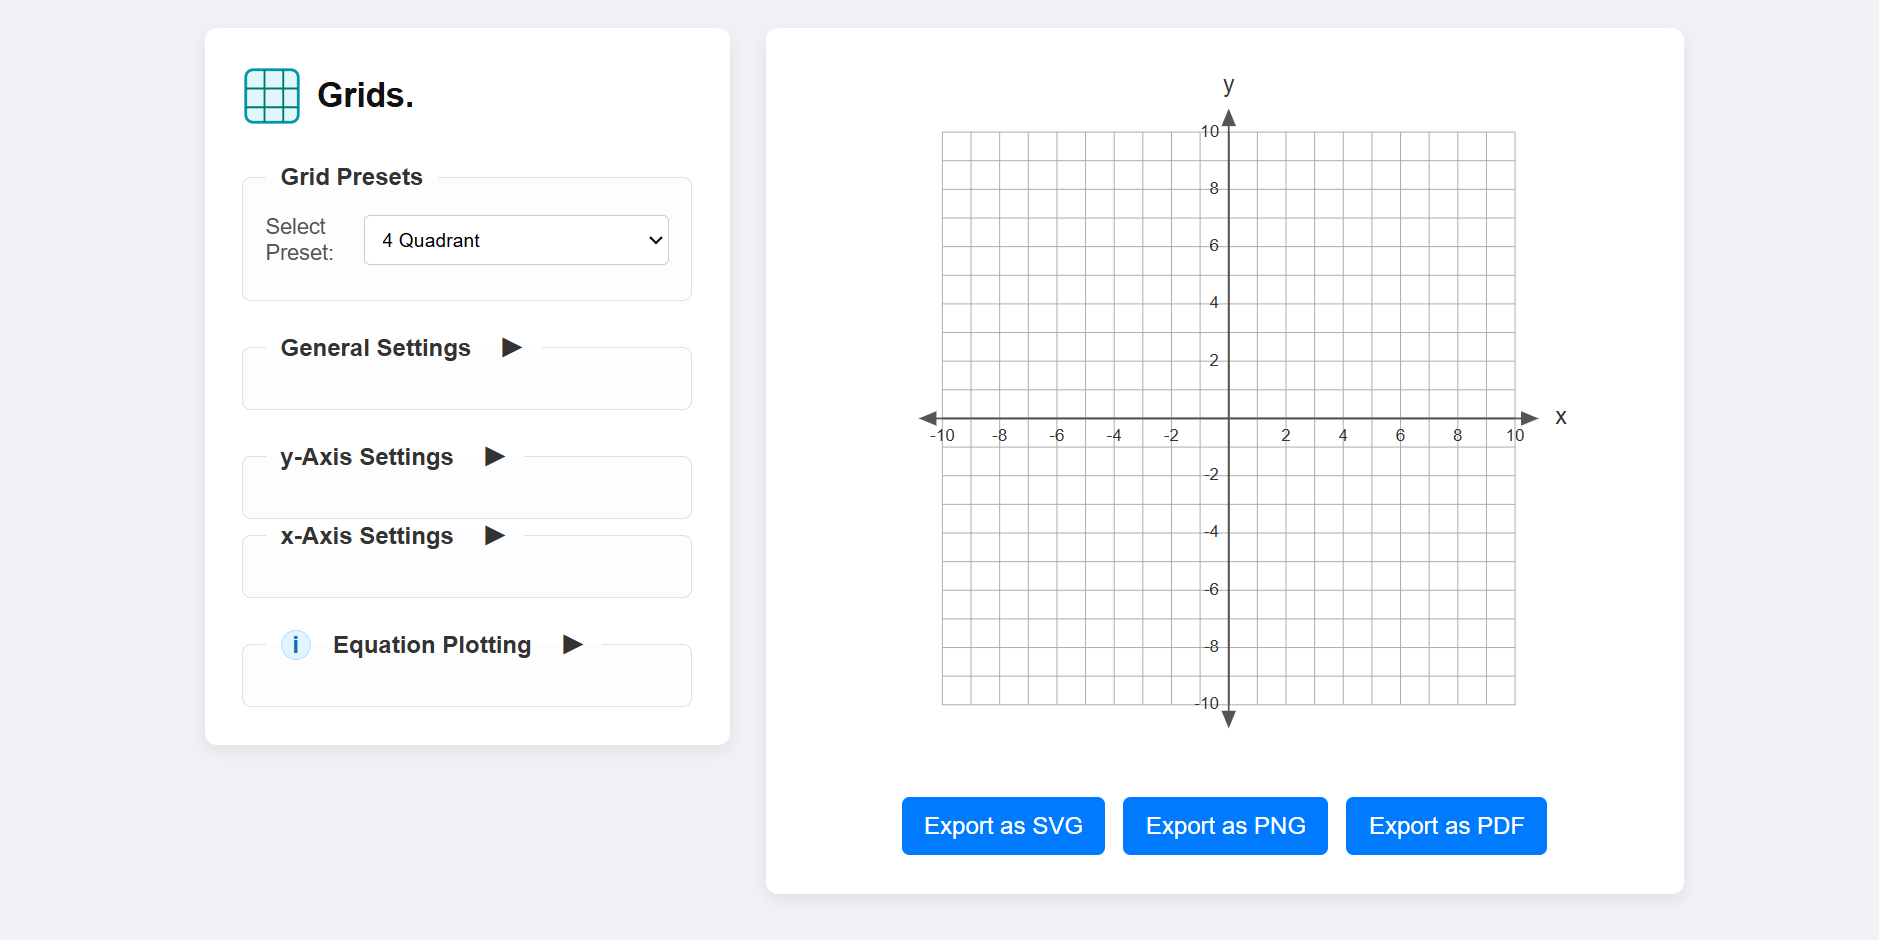
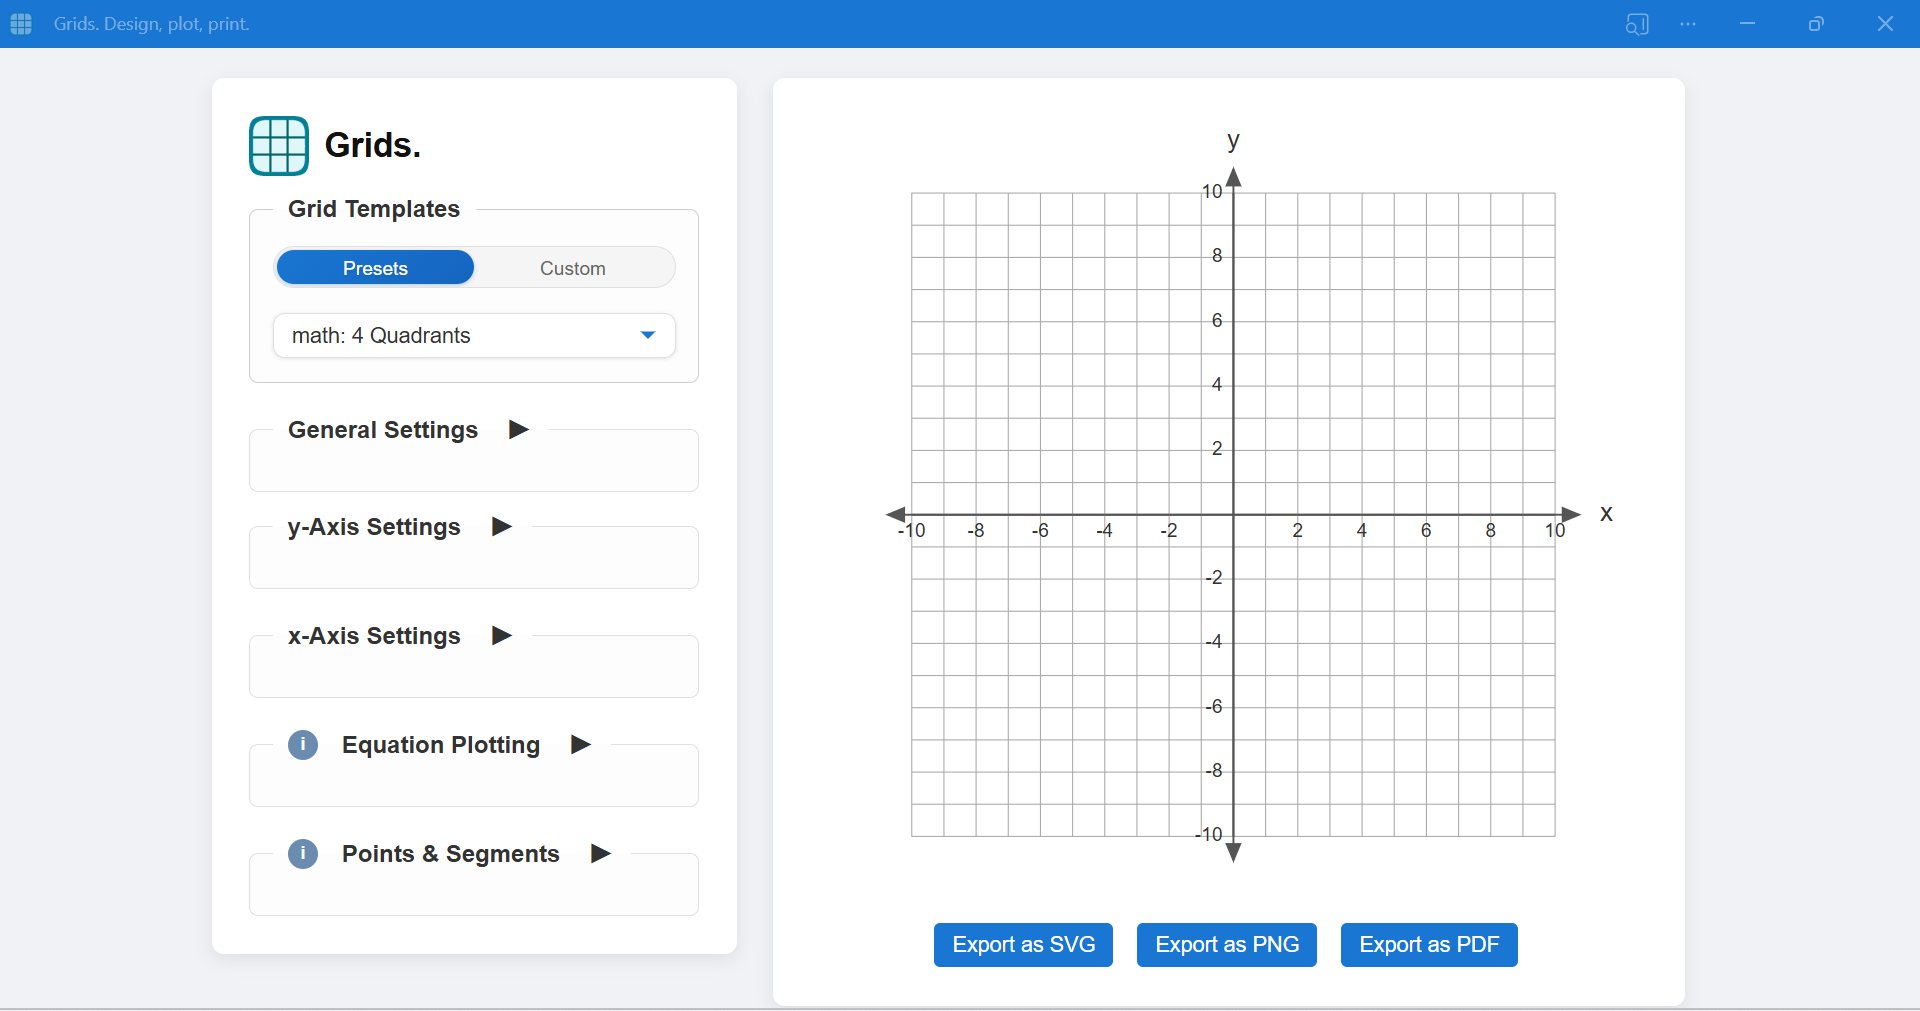
updated readme and screenshot

diff --git a/README.md b/README.md
@@ -6,12 +6,20 @@
 
 ## ✨ Features
 
-- 🧮 **Plot equations** directly in the grid
+- 🧮 **Plot equations** with beautiful mathematical notation using MathJax
 - 🔲 **Adjust grid size**, line spacing, and label frequency
 - 🖋 **Enable/disable axis labels**, choose fonts, style labels, and units
-- 📐 Generate fully customizable **Cartesian grids**
-- 💾 **Export as SVG, PNG, or PDF** — great for printing or digital use
-- 🎯 Precision scaling for professional-quality output
+- 📐 Generate and save **custom grid templates**
+- 📍 **Plot points and segments** with smart label positioning
+- 📊 Create **smooth curves** with adjustable curve intensity
+- 📥 **Bulk enter points** with coordinates, labels, and curve settings
+- 💾 **Save and load point sets** with complete grid configurations
+- 🎯 **Area calculation** for curves with positive/negative regions
+- 📤 **Export as SVG, PNG, or PDF** with perfect rendering
+- ✨ **Smart slope continuity** for continuous motion curves
+- ✏ **Draggable labels** for points and equations
+- 📝 **Native SVG math** for perfect exports in any application
+- 📦 **Zero dependencies** (uses MathJax CDN)
 
 ## 🚀 Try It Live
 
@@ -26,35 +34,75 @@ Launch the app directly in your browser:
 1. Open the app in a modern browser
 2. Choose your grid size and layout
 3. Toggle axes, labels, and formatting options
-4. Plot custom equations if desired
-5. Export your result in SVG, PNG, or PDF format
+4. Plot equations with beautiful mathematical notation
+5. Drag equation labels to perfect positions
+6. Export in SVG, PNG, or PDF format
+
+### 📊 Equation Support
+
+- Write equations using standard mathematical notation
+- Support for functions, inequalities, and custom notation
+- Beautiful rendering powered by MathJax
+- Labels automatically position near equations
+- Drag labels anywhere on the grid
+
+### 📍 Points & Curves
+
+- Plot individual points with optional labels
+- Connect points with straight lines or smooth curves
+- Adjust curve intensity for natural motion
+- Bulk import points with x,y coordinates and labels
+- Smart slope continuity for physics simulations
+- Calculate areas under curves
+- Save and load point sets with grid settings
+- Drag point labels for perfect positioning
+
+###  Export Options
+
+- **SVG**: Perfect vector output with embedded math
+- **PNG**: High-quality raster images
+- **PDF**: Professional print-ready output
+- All formats preserve mathematical notation
+- Exports work perfectly in Word, Google Docs, etc.
 
 ## 🗂 Project Structure
 
 ```bash
 Grids/
 ├── index.html           # Main application UI
-├── style.css            # Visual styling
-├── main.js              # UI and event handling
-├── plotter.js           # Drawing grid and plotted equations
-├── utils.js             # Utility functions
-├── labels.js            # Dynamic label logic
-├── grid-presets.js      # Predefined grid templates
-├── equations.js         # Equation parsing and plotting
-├── sw.js                # Service worker (network proxy)
-├── manifest.json         # Information to run PWA
-└── README.md            # Project documentation (this file)
+├── css/
+│   └── style.css       # Visual styling
+├── js/
+│   ├── main.js         # UI and event handling
+│   ├── plotter.js      # Drawing grid and plotted equations
+│   ├── utils.js        # Utility functions
+│   ├── labels.js       # Dynamic label logic
+│   ├── grid-presets.js # Predefined grid templates
+│   ├── equations.js    # Equation parsing and plotting
+│   ├── modalInit.js    # Modal dialog handling
+│   ├── pointSets.js    # Point plotting functionality
+│   └── userTemplates.js # User-defined grid templates
+├── modules/            # Modular components
+│   ├── errorHandler.js # Error handling system
+│   ├── gridAPI.js     # Grid manipulation API
+│   ├── modalManager.js # Modal window management
+│   ├── pointsLayer.js  # Point plotting layer
+│   └── pointsUI.js    # Point interface controls
+├── sw.js              # Service worker (offline support)
+├── manifest.json      # PWA configuration
+└── README.md         # Project documentation
 ```
 
 ## ⚙ Technologies Used
 
-- HTML + CSS + JavaScript
+- HTML5 + CSS3 + Modern JavaScript
 - SVG for scalable, high-quality rendering
+- MathJax for beautiful mathematical notation
+- Service Workers for offline capability
 - Math parsing for live equation plotting
 
 ## 📌 Roadmap
 
-- [ ] Add advanced support for polar grids
 - [ ] Custom color themes and accessibility modes
 
 ## 🤝 Contributing
